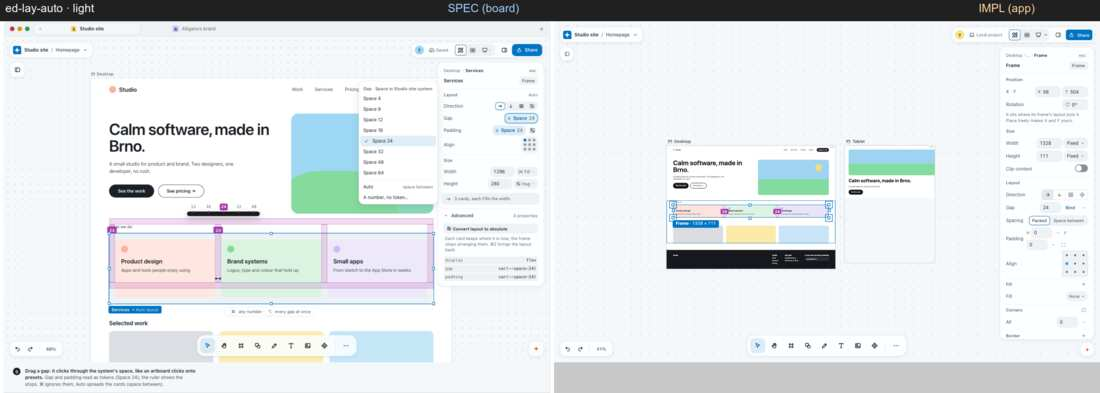
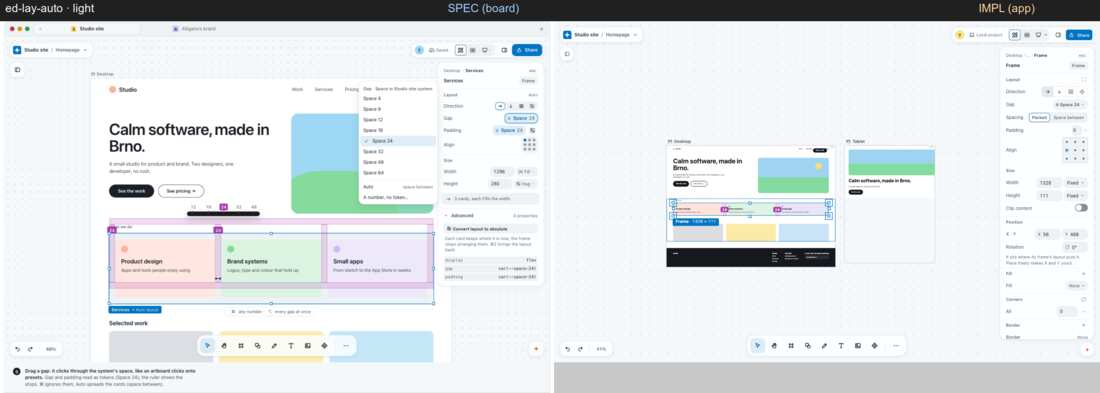
V2-8.5 C6 objinsp: stage D re-shot (ed-obj-enter, ed-lay-auto, ed-text-edit, ed-inspector, ed-comp-instance, light + dark), harness fixtures, fix report

diff --git a/.ai/plans/notes/v2-evidence/phase8-fidelity/_d-harness-g5/fx5-canvases/Homepage.tsx b/.ai/plans/notes/v2-evidence/phase8-fidelity/_d-harness-g5/fx5-canvases/Homepage.tsx
@@ -1,7 +1,7 @@
 import { DCArtboard, DCSection, DesignCanvas } from "@maude/canvas-lib";
 
 const card = (bg: string, dot: string, t: string, d: string) => (
-  <div data-cd-id={`card-${t.split(" ")[0].toLowerCase()}`} style={{ flex: 1, background: bg, borderRadius: 14, padding: 24, display: "flex", flexDirection: "column", gap: 8 }}>
+  <div data-cd-id={`card-${t.split(" ")[0].toLowerCase()}`} style={{ flex: 1, background: bg, borderRadius: "var(--radius-lg)", padding: "var(--space-5)", display: "flex", flexDirection: "column", gap: "var(--space-2)" }}>
     <span style={{ width: 12, height: 12, borderRadius: 6, background: dot }} />
     <strong style={{ fontSize: 17 }}>{t}</strong>
     <span style={{ fontSize: 13, color: "#555" }}>{d}</span>
@@ -10,19 +10,19 @@ const card = (bg: string, dot: string, t: string, d: string) => (
 
 const Hero = ({ w }: { w: number }) => (
   <div style={{ width: w, background: "#fff", color: "#16181d", fontFamily: "system-ui, sans-serif", position: "relative" }}>
-    <div data-cd-id="nav" style={{ display: "flex", alignItems: "center", gap: 28, padding: "20px 56px", fontSize: 14 }}>
+    <div data-cd-id="nav" style={{ position: "relative", display: "flex", alignItems: "center", gap: 28, padding: "20px 56px", fontSize: 14 }}>
       <span style={{ display: "flex", alignItems: "center", gap: 8, fontWeight: 600, marginRight: "auto" }}>
         <b style={{ width: 14, height: 14, borderRadius: 7, background: "#f7a38d", display: "inline-block" }} />Studio
       </span>
       <span>Work</span><span>Services</span><span>Pricing</span><span>About</span>
-      <em data-cd-id="book" style={{ fontStyle: "normal", background: "#16181d", color: "#fff", padding: "8px 16px", borderRadius: 999 }}>Book a call</em>
+      <button data-cd-id="book" style={{ position: "absolute", right: 72, top: 22, border: 0, font: "inherit", fontSize: 14, background: "#16181d", color: "#fff", padding: "10px var(--space-5)", borderRadius: "var(--radius-pill)", display: "inline-flex", gap: "var(--space-2)" }}>Book a call</button>
     </div>
     <div style={{ display: "flex", gap: 40, padding: "48px 56px" }}>
       <div style={{ flex: 1 }}>
         <h1 data-cd-id="headline" style={{ fontSize: 56, lineHeight: 1.05, margin: 0, fontWeight: 650 }}>Calm software, made in Brno.</h1>
         <p data-cd-id="sub" style={{ fontSize: 17, color: "#555", maxWidth: 440 }}>A small studio for product and brand. Two designers, one developer, no rush.</p>
         <div style={{ display: "flex", gap: 12, marginTop: 24 }}>
-          <button data-cd-id="see-work" style={{ background: "#16181d", color: "#fff", border: 0, padding: "12px 22px", borderRadius: 999, fontSize: 15 }}>See the work</button>
+          <button data-cd-id="see-work" style={{ background: "#16181d", color: "#fff", border: 0, padding: "10px var(--space-5)", borderRadius: "var(--radius-pill)", fontSize: 15 }}>See the work</button>
           <button data-cd-id="see-pricing" style={{ background: "#fff", color: "#16181d", border: "1px solid #16181d", padding: "12px 22px", borderRadius: 999, fontSize: 15 }}>See pricing →</button>
         </div>
       </div>
@@ -32,7 +32,7 @@ const Hero = ({ w }: { w: number }) => (
     </div>
     <div style={{ padding: "8px 56px 0" }}>
       <p style={{ fontSize: 13, color: "#555", margin: "0 0 12px" }}>What we do</p>
-      <div data-cd-id="services" style={{ display: "flex", gap: 24 }}>
+      <div data-cd-id="services" style={{ display: "flex", gap: "var(--space-5)" }}>
         {card("#fde3dc", "#f4947d", "Product design", "Apps and tools people enjoy using.")}
         {card("#dff3e4", "#5cc27d", "Brand systems", "Logos, type and colour that hold up.")}
         {card("#e9e4f7", "#9a86e0", "Small apps", "From sketch to the App Store in weeks.")}

diff --git a/.ai/plans/notes/v2-evidence/phase8-fidelity/_d-harness-g5/fx5-canvases/Alligators.tsx b/.ai/plans/notes/v2-evidence/phase8-fidelity/_d-harness-g5/fx5-canvases/Alligators.tsx
@@ -11,7 +11,7 @@ const Post = ({ t1, t2, sub, btn }: P) => (
   <div style={{ position: "relative", width: 1080, height: 1080, background: "#123524", color: "#fff", fontFamily: FONT, overflow: "hidden" }}>
     <svg data-cd-id="mark" width="72" height="72" viewBox="0 0 72 72" style={{ position: "absolute", left: 64, top: 64 }}><path d="M8 60 L36 8 L64 60 Z" fill="#f6c915" /></svg>
     <div data-cd-id="date-bg" style={{ position: "absolute", left: 52, top: 704, width: 600, height: 64, background: "#1f4d36", borderRadius: "4px 20px 4px 4px" }} />
-    <h1 data-cd-id="title" style={{ position: "absolute", left: 64, top: 330, margin: 0, fontSize: 132, lineHeight: 0.95, fontWeight: 800, letterSpacing: 1 }}>{t1}<br />{t2}</h1>
+    <h1 data-cd-id="title" lang="cs" style={{ position: "absolute", left: 64, top: 330, margin: 0, fontSize: 132, lineHeight: 0.95, fontWeight: 800, letterSpacing: 1 }}>{t1}<br />{t2}</h1>
     <p data-cd-id="date" style={{ position: "absolute", left: 64, top: 712, margin: 0, fontSize: 30, width: 560 }}>{sub}</p>
     <button data-cd-id="cta" style={{ position: "absolute", left: 64, top: 880, background: "#f6c915", color: "#123524", border: 0, padding: "22px 44px", fontSize: 34, fontWeight: 800, borderRadius: 6 }}>{btn}</button>
     <Photo w={460} h={720} style={{ right: 0, bottom: 0 }} />

diff --git a/.ai/plans/notes/v2-evidence/phase8-fidelity/14-editing/fix-c6-objinsp.md b/.ai/plans/notes/v2-evidence/phase8-fidelity/14-editing/fix-c6-objinsp.md
@@ -1,0 +1,23 @@
+# P8 stage C · round 6 · c6-objinsp — fix report (done vs open)
+
+Branch `p8-c6-objinsp` (from feat/maude-v2 4fc89c1a4). Scope: the OBJECT inspector on 14 (ed-inspector, ed-lay-auto, ed-obj-enter, ed-comp-instance, ed-text-edit). Files: `client/v2/inspector/{frame.jsx,model.js,sections.js,sections/*,kinds/frame.jsx}`.
+
+## Done (code)
+- **An object a layout places has no X · Y of its own** (14 ed-obj-enter): Position reads "In Services — Set by Services · 2 of 3" (the frame's name and the object's place among its children, from the Layers tree: `model.js placementOf`, `ctx.placement`), then **Place freely as a switch** (off; turning it on runs `object.place-freely`) and the "← → move it earlier or later" line in its own soft box. No X · Y / Rotation / "It sits where…" paragraph in that state; a placed object keeps X · Y · Rotation · Constraints.
+- **Who leads the card** (ed-lay-auto vs ed-obj-enter): a frame that runs an auto layout and that no layout places leads with Layout, then Size, then Position (`sections.js sectionsFor(kind, { layoutFirst })`); the same frame inside another layout keeps Position first.
+- **Padding on one row** (ed-inspector / ed-lay-auto): four alike sides read as ONE token chip ("Space 24", `insp-chip-pad-all`); H · V show only when they differ ("H Space 24 · V 10 Bind"); the per-side icon moved from the Padding row to the Layout header (like Corners' unlink); the row no longer wraps in the 264 card (compact chips, no wrap, 26 px number).
+- **Token chips** read the bound token with 14's token glyph (a diamond outline instead of a dot) and never break across two lines ("Space\n24").
+- **Size · weight** (Type): the size field and the weight select no longer overlap — the row wraps its value under the label when the card is too narrow.
+- **`Line`** (14 `.ed-line`): a status sentence draws in its own soft box (`Quiet line`), used for the Place freely line.
+
+## Stage D
+5 ids re-shot (light + dark) with the g5 harness; changes to it (committed in `_d-harness-g5/`): the Homepage fixture is a BOUND project (the Services row, cards, nav button and "See the work" use `var(--space-5)`, `var(--radius-pill)`, `var(--radius-lg)`, `var(--fg-0)` …) and the nav's "Book a call" is a real `<button>` pinned right/top (so ed-inspector shows Position X · Y + Constraints like the board); the Alligators title carries `lang="cs"`; `s14b.mjs` (gators branch) shoots ed-text-edit on the Alligators "Zapiš se" post. `c6.mjs` is a one-object inspector crop (T=book|brand|services|title|inst).
+
+## Open
+1. Advanced › "Tokens it uses" is 06's property → `--token` rows, not 14's chips (Ink · Page · Space 8 · Round · Resting …); 06 owns that group (decision v2-p8-inspector-full-per-14 left it).
+2. Instance Variant flyout (the menu with "Plné ✓ / Obrys / Your text and colour come along") is still a Select; override dots + "N changes · Reset" + "Update … for every canvas…" exist and show once the instance has overrides (the harness does not make one).
+3. Export "This object" row (09 owns the section: v2-p8-c5-export-owned-by-09); Interaction "On click" shows None unless the fixture button has a link.
+4. The harness' design system is maude-v2 (names "Pill", "LG"), not the board's "Studio site system" (names "Round", "Space 24" on a "Ink" colour), so the chips read the right shape with the system's own words.
+5. ed-text-edit: no text style in the fixture ("Plakát") so "Uses … brand system" / the style row differ; the zoomed poster framing is not the shot.
+6. **Fill reads "None" for a `background: var(--token)` shorthand** on the harness's Book a call button (the CSS shows it bound); `fillFromCss` handles `var(--ink)` in a unit test, so the loss is between the selection payload's `authored` map and the Fill section (not traced). The harness keeps the hex fill until it is.
+7. Characterization snapshots (`test/characterization/v1/browser__inspector-selected.txt`, `keys.txt`) list `insp-sides` inside the Padding row and the H / V pair; the DOM moved (header icon, one chip for alike sides) — the lead's `check-v1-characterization --update` pass regenerates them.

diff --git a/.ai/plans/notes/v2-evidence/phase8-fidelity/14-editing/INDEX.md b/.ai/plans/notes/v2-evidence/phase8-fidelity/14-editing/INDEX.md
@@ -327,3 +327,19 @@ Re-shot 50 of 52 pairs; 2 unreachable. Supersedes every earlier "after" / "FINAL
 | `ed-text-edit` | light | re-shot | spec reused (board unchanged since the stage-A shot) |
 | `ed-text-style` | dark | re-shot | spec reused (board unchanged since the stage-A shot) |
 | `ed-text-style` | light | re-shot | spec reused (board unchanged since the stage-A shot) |
+
+## After (round 6, c6-objinsp) - IMPL re-shot on the p8-c6-objinsp tip, both themes
+Re-shot: ed-obj-enter, ed-lay-auto, ed-text-edit, ed-inspector, ed-comp-instance (the other ids keep their round-5 / D3 pairs). Changed in the product: an object a layout places reads "In <frame> - Set by <frame> - n of m" with a Place freely switch (no X / Y of its own); a frame that runs an auto layout and that nothing places leads with Layout then Size; Padding is one row (one chip when the four sides are alike, "H chip V chip" when they differ; the per-side icon is the Layout header's); token chips carry 14's token glyph and never wrap; the Size / weight pair no longer overlaps; a status sentence draws in its own soft box. Harness: the Homepage fixture is a bound project (space / radius tokens) with a real Book a call button pinned right / top; the Alligators title is lang="cs"; ed-text-edit is shot on the Alligators "Zapis se" post; ed-inspector in a tall window with Advanced opened. Still open: see `fix-c6-objinsp.md`.
+
+| id | theme | status | spec |
+|---|---|---|---|
+| `ed-comp-instance` | dark | re-shot | spec reused (board unchanged since the stage-A shot) |
+| `ed-comp-instance` | light | re-shot | spec reused (board unchanged since the stage-A shot) |
+| `ed-inspector` | dark | re-shot | spec reused (board unchanged since the stage-A shot) |
+| `ed-inspector` | light | re-shot | spec reused (board unchanged since the stage-A shot) |
+| `ed-lay-auto` | dark | re-shot | spec reused (board unchanged since the stage-A shot) |
+| `ed-lay-auto` | light | re-shot | spec reused (board unchanged since the stage-A shot) |
+| `ed-obj-enter` | dark | re-shot | spec reused (board unchanged since the stage-A shot) |
+| `ed-obj-enter` | light | re-shot | spec reused (board unchanged since the stage-A shot) |
+| `ed-text-edit` | dark | re-shot | spec reused (board unchanged since the stage-A shot) |
+| `ed-text-edit` | light | re-shot | spec reused (board unchanged since the stage-A shot) |
